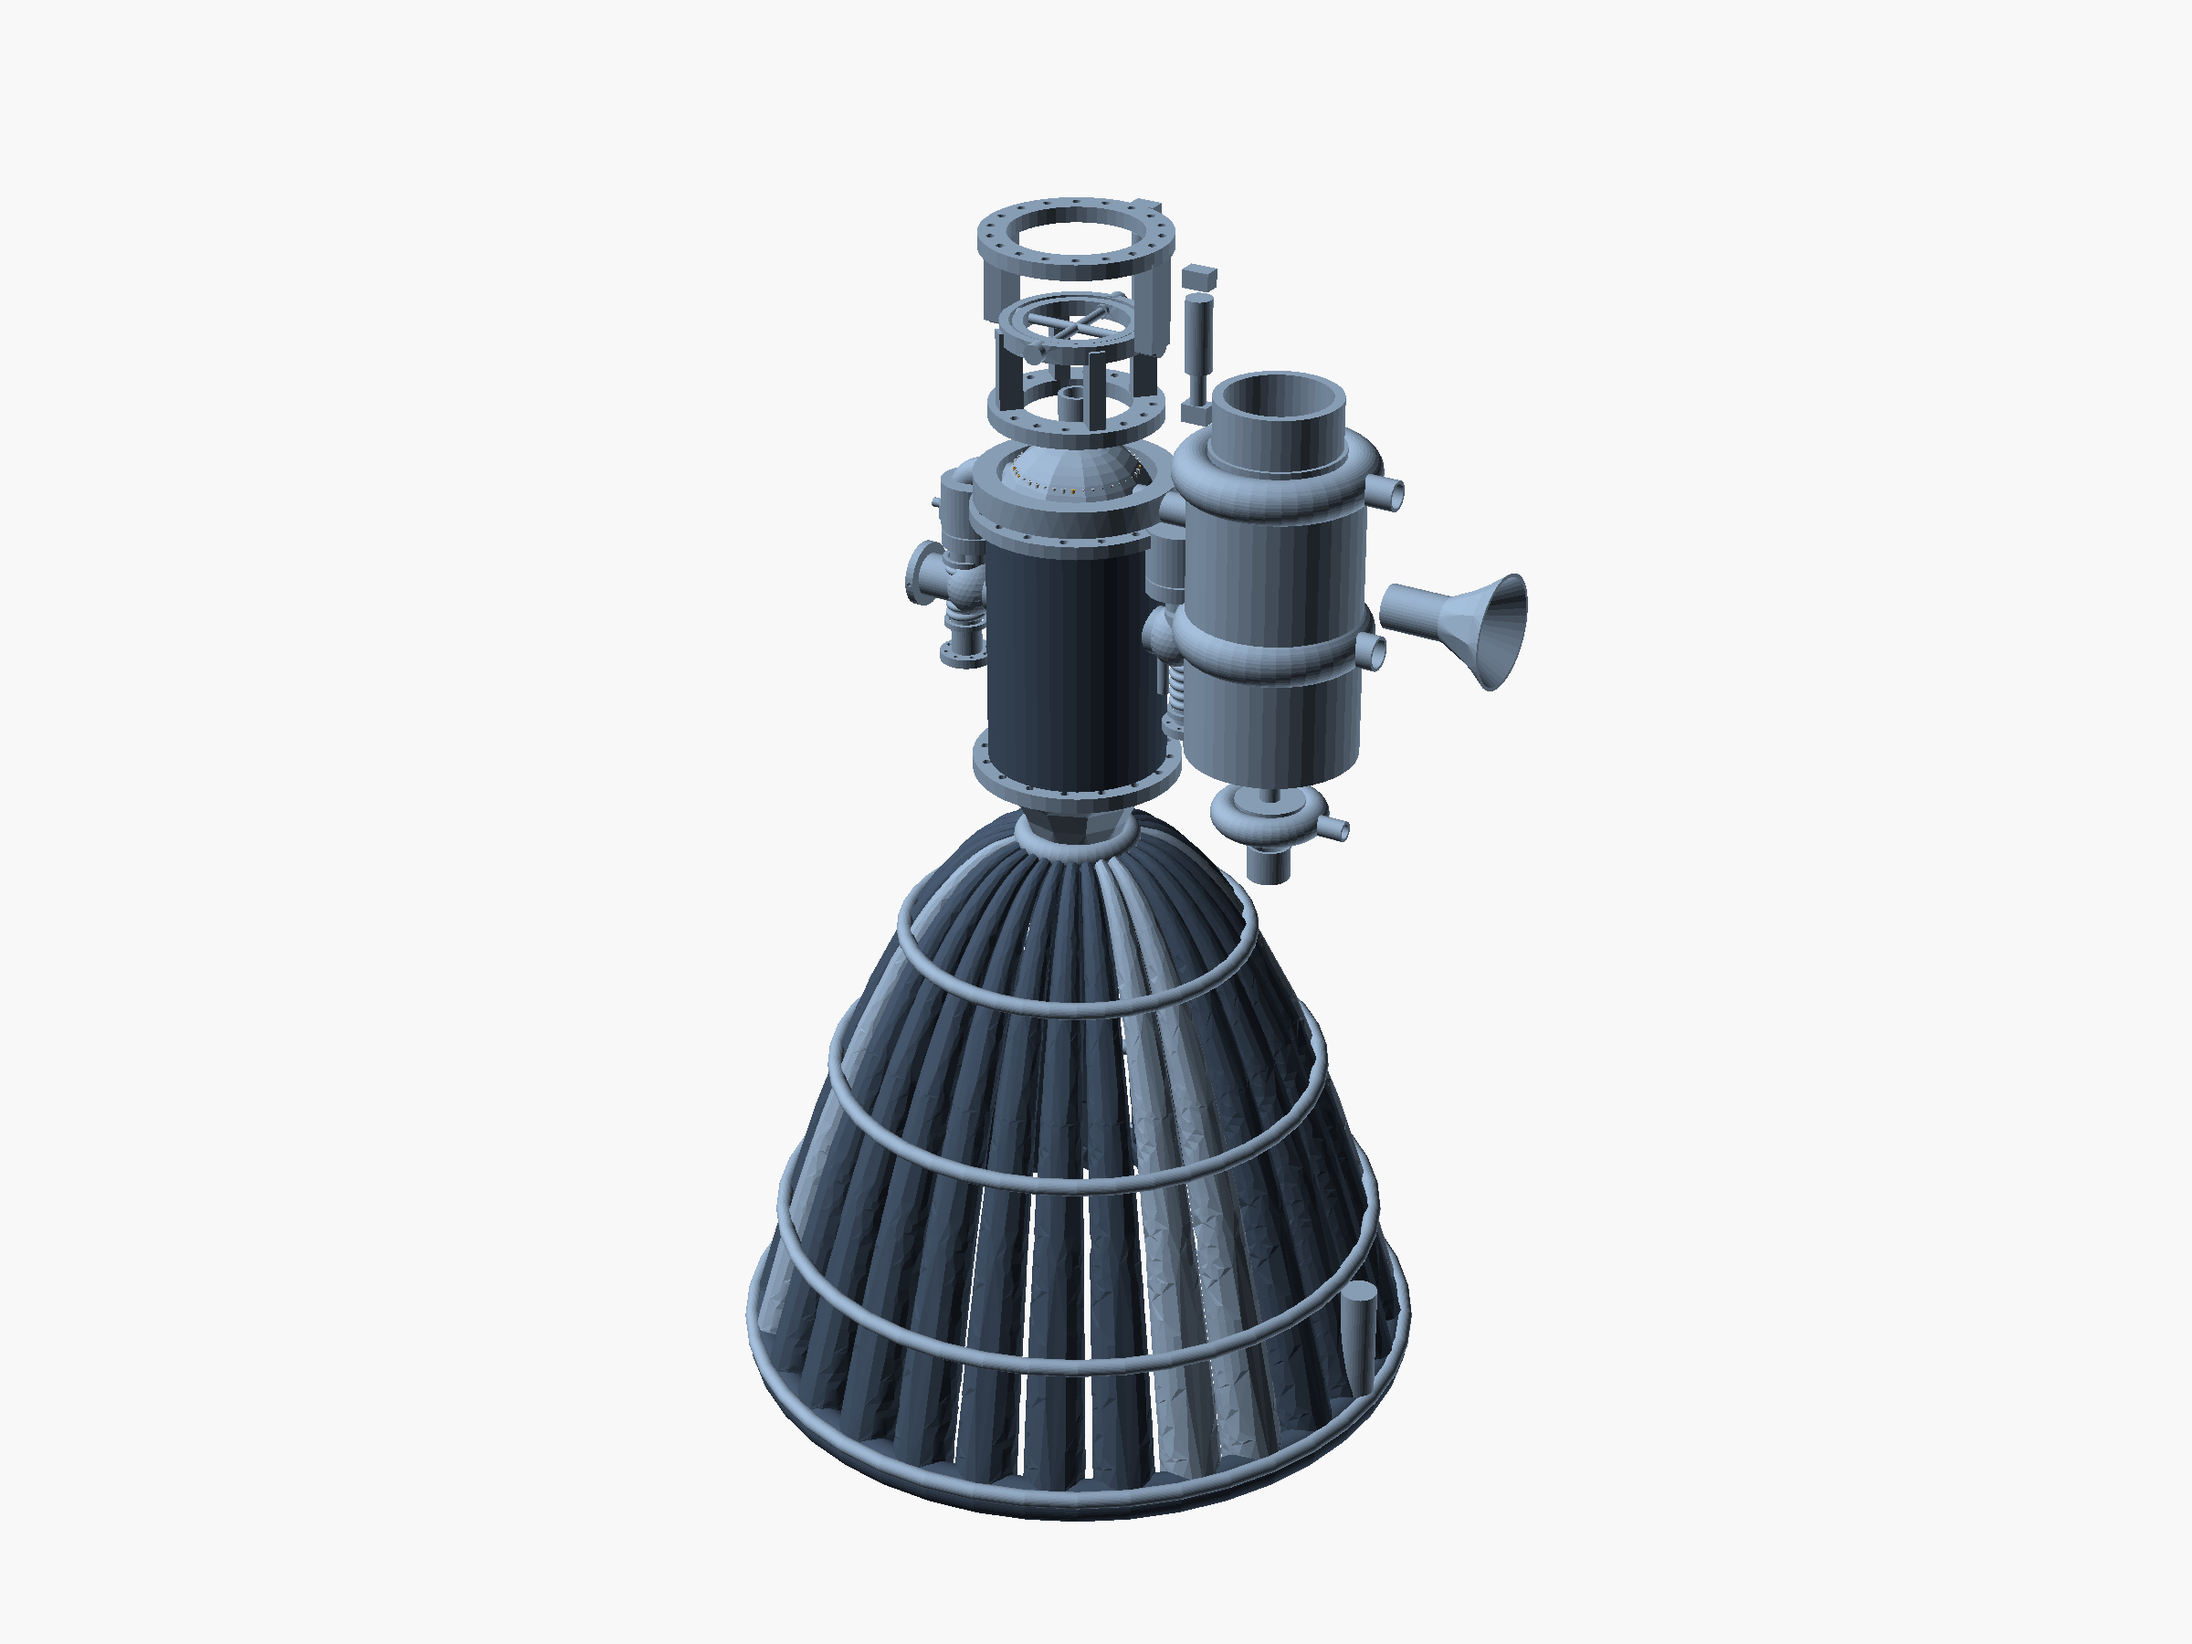
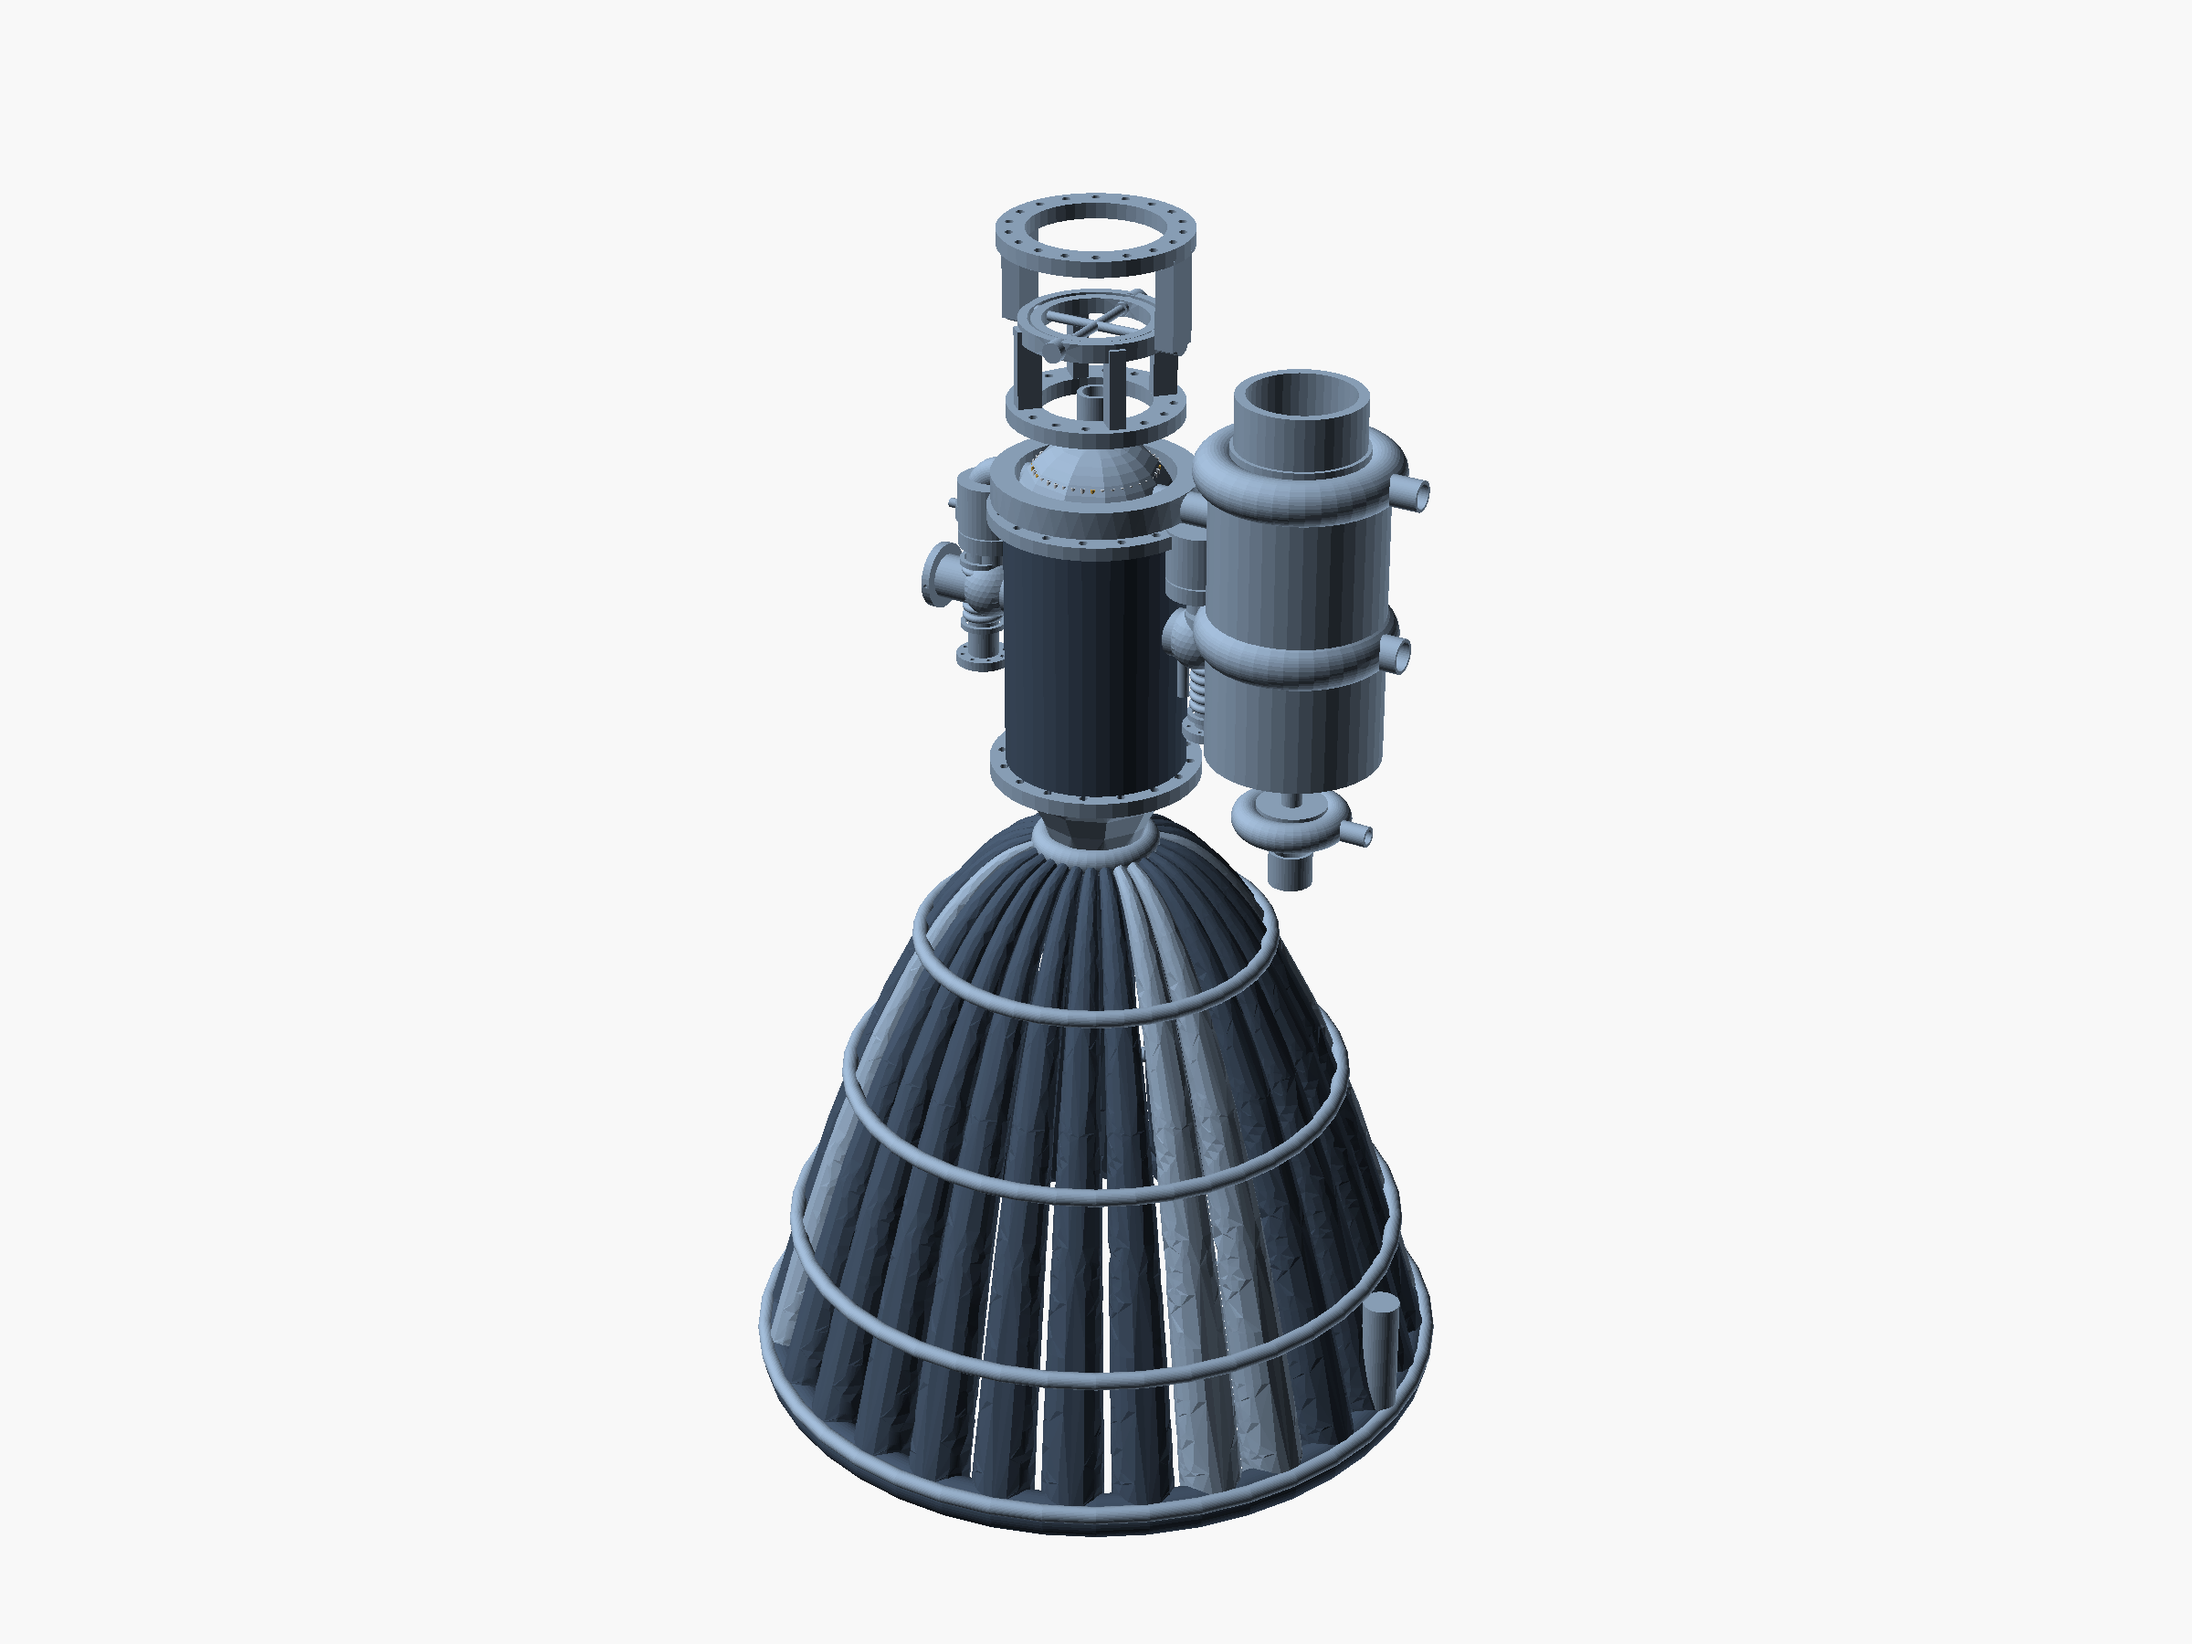
Index subtitles capitalised, year stamps gone, tagline to 'I build.', engine loose parts pruned, Token Barter crop and command list, FTC to Elsewhere, CAD currency stated

Changed region(s): [[0.3438, 0.0933, 0.7188, 0.9333]]

diff --git a/index.html b/index.html
@@ -4,7 +4,7 @@
 <meta charset="utf-8">
 <meta name="viewport" content="width=device-width, initial-scale=1">
 <title>Dylan Leitenberg</title>
-<meta name="description" content="Things I have built: an AR glasses rig, a self-replicating asteroid miner design, a local voice assistant, a talent-scouting web app, a metered AI-allowance marketplace.">
+<meta name="description" content="Dylan Leitenberg builds: an AR glasses rig, a self-replicating asteroid miner, a hands-and-voice computer interface, a talent scout, a token exchange.">
 <link rel="preconnect" href="https://fonts.googleapis.com">
 <link rel="preconnect" href="https://fonts.gstatic.com" crossorigin>
 <link href="https://fonts.googleapis.com/css2?family=Inter:wght@400;500;600&family=Instrument+Serif:ital@0;1&family=JetBrains+Mono:wght@400;500&display=swap" rel="stylesheet">
@@ -34,7 +34,7 @@
       <p class="kicker">Kauai, Hawaii</p>
       <h1>Dylan<br>Leitenberg</h1>
 
-      <p class="tagline">I build.<br>I am working on self-replicating robots for asteroid mining.</p>
+      <p class="tagline">I build.</p>
 
       <div class="meta">
         <span>17</span>
@@ -57,12 +57,12 @@
   <div class="wrap">
     <h2>Index</h2>
     <ol class="index">
-      <li><a href="#ar-rig"><span class="n">01</span><span class="t">AR Glasses Rig<small>hardware, worn, running</small></span><span class="s">2026 –</span></a></li>
-      <li><a href="#asteroid-miner"><span class="n">02</span><span class="t">Self-Replicating Asteroid Miner<small>design program, Mark 5</small></span><span class="s">2026 –</span></a></li>
-      <li><a href="#jarvis"><span class="n">03</span><span class="t">J.A.R.V.I.S.<small>hands-and-voice control of a Mac, no keyboard</small></span><span class="s">2026</span></a></li>
-      <li><a href="#neuropian"><span class="n">04</span><span class="t">Neuropian<small>talent-scouting web app · live</small></span><span class="s">2026</span></a></li>
-      <li><a href="#token-barter"><span class="n">05</span><span class="t">Token Barter<small>AI-allowance marketplace, current</small></span><span class="s">2026 –</span></a></li>
-      <li><a href="#robotics"><span class="n">06</span><span class="t">Youth Robotics Program &amp; FTC<small>people, not hardware</small></span><span class="s">2026 –</span></a></li>
+      <li><a href="#ar-rig"><span class="n">01</span><span class="t">AR Glasses Rig<small>Hardware, worn, running</small></span></a></li>
+      <li><a href="#asteroid-miner"><span class="n">02</span><span class="t">Self-Replicating Asteroid Miner<small>Design program, Mark 5</small></span></a></li>
+      <li><a href="#jarvis"><span class="n">03</span><span class="t">J.A.R.V.I.S.<small>Hands-and-voice control of a Mac, no keyboard</small></span></a></li>
+      <li><a href="#neuropian"><span class="n">04</span><span class="t">Neuropian<small>Talent-scouting web app · live</small></span></a></li>
+      <li><a href="#token-barter"><span class="n">05</span><span class="t">Token Barter<small>AI-allowance marketplace, current</small></span></a></li>
+      <li><a href="#robotics"><span class="n">06</span><span class="t">Youth Robotics Program<small>People, not hardware</small></span></a></li>
     </ol>
   </div>
 </section>
@@ -75,7 +75,7 @@
     <div class="p-head">
       <span class="n">01</span>
       <h2>AR Glasses Rig</h2>
-      <p class="lede"><span class="status live">Worn and running</span><span>2026, ongoing</span><span>Python · OpenCV · custom tracker · printed carrier</span></p>
+      <p class="lede"><span class="status live">Worn and running</span><span>Python · OpenCV · custom tracker · printed carrier</span></p>
     </div>
 
     <figure class="lead free">
@@ -157,7 +157,7 @@
     <div class="p-head">
       <span class="n">02</span>
       <h2>Self-Replicating Asteroid Miner</h2>
-      <p class="lede"><span class="status">Design program, Mark 5 rev E</span><span>2026, ongoing</span><span>OpenSCAD · Onshape · Python simulation</span></p>
+      <p class="lede"><span class="status">Design program, Mark 5 rev E</span><span>OpenSCAD · Onshape · Python simulation</span></p>
     </div>
 
     <figure class="lead wide contain free">
@@ -173,6 +173,7 @@
         <div><dt>Process</dt><dd>Crush, magnetic separation, hydrogen reduction and sulfur bake, carbonyl nickel, press-and-sinter powder metallurgy, wire drawing, cast basalt structure.</dd></div>
         <div><dt>Power</dt><dd>Mirror field into thermophotovoltaics with a silicon thermal store. No batteries anywhere in the architecture.</dd></div>
         <div><dt>Method</dt><dd>Every decision provenance-tagged recovered / revised / sourced / computed / speculative, so no number hardens without a trace.</dd></div>
+        <div><dt>CAD shown</dt><dd>The worm and the bench article are the current design, Mark 5 rev E. The aft engine and carbonyl skid are Mark 4, the previous generation, kept because that CAD survived.</dd></div>
         <div><dt>Toolchain</dt><dd>Parametric CAD with compile-time assertions (the file refuses to render if a mate or rule is violated) plus an economic model that sizes each machine by predicted future dependency and emits the CAD priority queue.</dd></div>
       </dl>
 
@@ -206,11 +207,11 @@
       </figure>
       <figure class="half contain">
         <div class="frame"><img src="assets/miner-mk4-engine.png" alt="Render of the Mark 4 aft engine assembly: a tube-wall nozzle with stiffening rings, turbopump, gas generator and valves above it" loading="lazy"></div>
-        <figcaption>Mark 4 aft engine, assembled: regeneratively cooled nozzle of 180 bifurcated tubes, LOX/LH2 turbopump on a common shaft, gas generator, coaxial injector and main valves. Designed to run on oxygen and hydrogen split from asteroid water.</figcaption>
+        <figcaption>Mark 4 aft engine, assembled (previous generation): regeneratively cooled nozzle of 180 bifurcated tubes, LOX/LH2 turbopump on a common shaft, gas generator, coaxial injector and main valves. Designed to run on oxygen and hydrogen split from asteroid water.</figcaption>
       </figure>
       <figure class="half contain">
         <div class="frame"><img src="assets/miner-carbonyl-skid.png" alt="Render of the carbonyl nickel batch skid: flanged pressure vessels, piping and valves on a steel skid frame" loading="lazy"></div>
-        <figcaption>Carbonyl nickel batch skid: pressure vessels, piping and valves on a common frame. Mark 4, rev D.</figcaption>
+        <figcaption>Carbonyl nickel batch skid (Mark 4, previous generation): pressure vessels, piping and valves on a common frame.</figcaption>
       </figure>
     </div>
   </div>
@@ -222,7 +223,7 @@
     <div class="p-head">
       <span class="n">03</span>
       <h2>J.A.R.V.I.S.</h2>
-      <p class="lede"><span class="status live">Running</span><span>2026</span><span>hands and voice, no keyboard · Python · MediaPipe · WebSockets</span></p>
+      <p class="lede"><span class="status live">Running</span><span>hands and voice, no keyboard · Python · MediaPipe · WebSockets</span></p>
     </div>
 
     <figure class="lead wide free">
@@ -269,7 +270,7 @@
     <div class="p-head">
       <span class="n">04</span>
       <h2>Neuropian</h2>
-      <p class="lede"><span class="status live">Live</span><span>April to June 2026</span><span>Full-stack web app</span><span><a href="https://neuropian.com">neuropian.com</a></span></p>
+      <p class="lede"><span class="status live">Live</span><span>Full-stack web app</span><span><a href="https://neuropian.com">neuropian.com</a></span></p>
     </div>
 
     <div class="cols">
@@ -296,7 +297,7 @@
     <div class="p-head">
       <span class="n">05</span>
       <h2>Token Barter</h2>
-      <p class="lede"><span class="status live">Current project</span><span>2026, ongoing</span><span>Python · FastAPI · PostgreSQL · Redis</span><span><a href="https://thenextelon.com/ui/">thenextelon.com</a></span></p>
+      <p class="lede"><span class="status live">Current project</span><span>Python · FastAPI · PostgreSQL · Redis</span><span><a href="https://thenextelon.com/ui/">thenextelon.com</a></span></p>
     </div>
 
     <figure class="lead wide free">
@@ -318,11 +319,6 @@
       </dl>
 
       <div class="prose">
-<pre><span class="c"># the whole thing from a cold start</span>
-tb init      <span class="c"># sign in, accept terms, verify, publish, serve</span>
-tb ask       <span class="c"># spend allowance through the metered proxy</span>
-tb serve     <span class="c"># publish an agent for every vendor key you hold</span>
-tb doctor    <span class="c"># name anything that is wrong</span></pre>
         <h4>What I built</h4>
         <p>Token exchange where you can put your AI/tokens up for use to answer other people's prompts in exchange for on site currency. That currency can then be used to prompt other user's AI. Allows you to exchange some of your tokens from one provider for usage in another's AI.</p>
         <h4>What was hard</h4>
@@ -339,8 +335,8 @@ tb doctor    <span class="c"># name anything that is wrong</span></pre>
   <div class="wrap">
     <div class="p-head">
       <span class="n">06</span>
-      <h2>Youth Robotics Program &amp; FTC</h2>
-      <p class="lede"><span class="status live">Running</span><span>2026, ongoing</span><span>Kauai, Hawaii</span></p>
+      <h2>Youth Robotics Program</h2>
+      <p class="lede"><span class="status live">Running</span><span>Kauai, Hawaii</span></p>
     </div>
 
     <div class="cols">
@@ -349,7 +345,6 @@ tb doctor    <span class="c"># name anything that is wrong</span></pre>
         <div><dt>Problem</dt><dd>Most of the school's robotics team was graduating. No STEM program for elementary students; five people on the FTC team.</dd></div>
         <div><dt>What I did</dt><dd>Founded the Youth Robotics Program: reached <strong>25+</strong> teachers, secured board-member funding, recruited high-school mentors, built the curriculum with the FTC captain.</dd></div>
         <div><dt>Reach</dt><dd>A dozen students of all ages brought into engineering, working on real robots.</dd></div>
-        <div><dt>Competition</dt><dd>FTC: build, design and alliance negotiation on a five-person team, <strong>2nd in Hawaii</strong>, qualified for Canada Cup.</dd></div>
       </dl>
       <div class="prose">
         <h4>Why I built this</h4>
@@ -363,6 +358,7 @@ tb doctor    <span class="c"># name anything that is wrong</span></pre>
   <div class="wrap">
     <h2>Elsewhere</h2>
     <ul class="list">
+      <li><span class="k">FIRST Robotics</span><span>FTC team of five: build, design and alliance negotiation. Second in Hawaii, qualified for Canada Cup.</span></li>
       <li><span class="k">Research</span><span>Co-author on two posters presented at the American Psychological Association national convention, through The Good Student. Data analysis in R.</span></li>
       <li><span class="k">National History Day</span><span>Won regionals and advanced to states with a paper built around my grandmother's flight from Poland.</span></li>
       <li><span class="k">Guitar</span><span>Eight years, classical and electric. Villa-Lobos Etude 7 through metal bands.</span></li>

diff --git a/style.css b/style.css
@@ -121,7 +121,7 @@ section.index { padding: 40px 0 8px; }
 section.index h2 { font-family: var(--mono); font-size: 12px; letter-spacing: 0.12em; text-transform: uppercase; color: var(--ink-3); font-weight: 500; margin: 0 0 6px; }
 ol.index { list-style: none; margin: 0; padding: 0; }
 ol.index li a {
-  display: grid; grid-template-columns: 44px 1fr auto; gap: 16px; align-items: baseline;
+  display: grid; grid-template-columns: 44px 1fr; gap: 16px; align-items: baseline;
   padding: 14px 0; border-bottom: 1px solid var(--rule-soft); text-decoration: none;
 }
 ol.index li a:hover .t { color: var(--accent-ink); }
